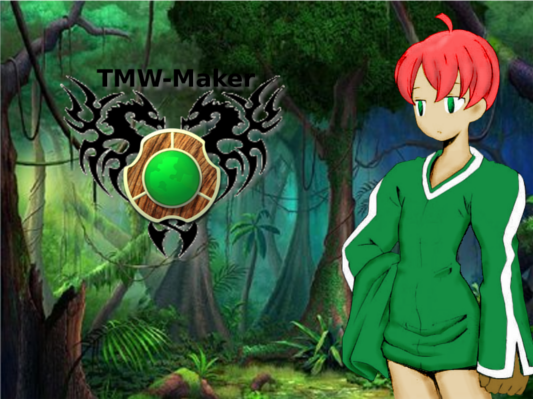
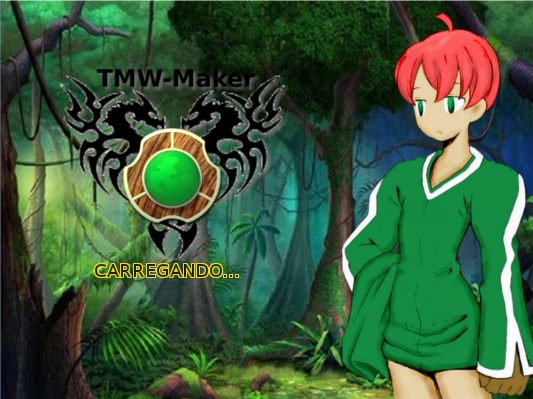
FEITO:  * Estudo sobre agilização para abrir arquivo de testo com 5 mil linhas.

Changed region(s): [[0.1501, 0.6617, 0.4503, 0.7218]]

diff --git a/java/TMW-Maker/src/Formularios/FrmPrincipal.java b/java/TMW-Maker/src/Formularios/FrmPrincipal.java
@@ -1039,6 +1039,9 @@ public class FrmPrincipal extends javax.swing.JFrame {
                         if(ConfigClass.getAgora()>=FrmPrincipal.Config.getAtualizacao()+FrmPrincipal.Config.getAtualizacaoIntervalo()){
                             Atualizar();
                         }
+                        if(!(FrmPrincipal.Modulo instanceof Classes.ItensModulo)){
+                            MostrarDeSplash();
+                        }
                     }
                 }
             }
@@ -1091,10 +1094,7 @@ public class FrmPrincipal extends javax.swing.JFrame {
                 this.getHeight());
         this.setExtendedState(MAXIMIZED_BOTH); //Maximiza a tela
         Config.ConfiguracoesAbrir();
-        if (Config.getDependenciaEmFalta() >= 1) {
-            MostrarDePendencias();
-        }
-        MostrarDeSplash();
+        if(Config.getDependenciaEmFalta() >= 1) MostrarDePendencias();
     }//GEN-LAST:event_formWindowOpened
     private void MnuSistemaAtualizarActionPerformed(java.awt.event.ActionEvent evt) {//GEN-FIRST:event_MnuSistemaAtualizarActionPerformed
         if (FrmPrincipal.Config.getOS().indexOf("win") >= 0) {
